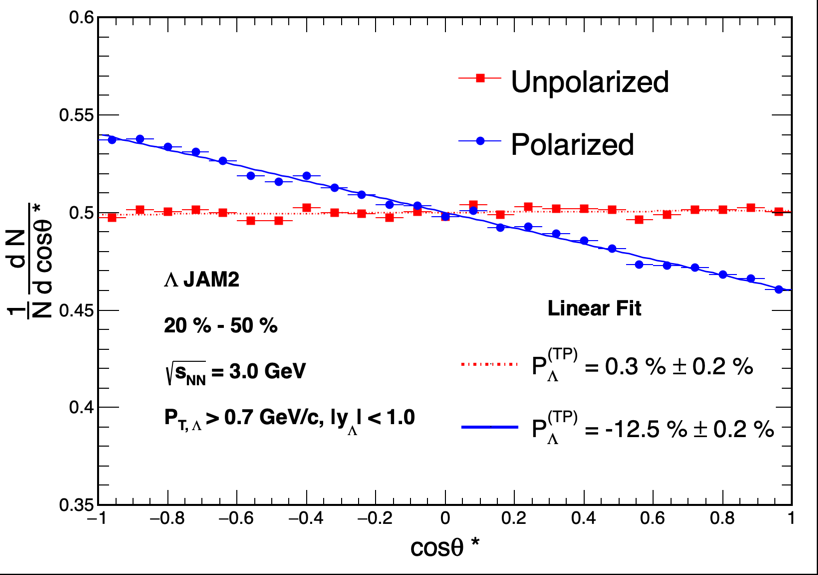
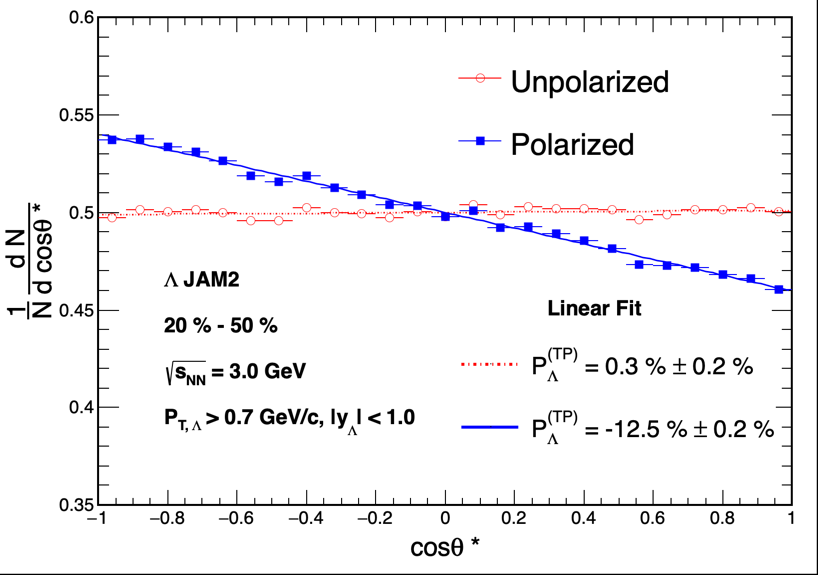
update

diff --git a/plot_FIXTARGET/plot.C b/plot_FIXTARGET/plot.C
@@ -4,8 +4,8 @@
 void plot(){
 
 	   double sqrt_sNN = 3.0;
-      double alpha = 0.642;
-
+      //double alpha = 0.642;
+      double alpha = 0.747;
 	   int *centrality_charged_multi_higher; 
        int *centrality_charged_multi_lower ;
 
@@ -616,10 +616,10 @@ void plot(){
       h1D_lambda_xF_distribution->SetMarkerSize(1.0);
       h1D_lambda_xF_distribution->Draw("EP");
       text->SetTextSize(0.04);
-      text->DrawLatexNDC(0.65, 0.87, "#Lambda JAM2");
-      text->DrawLatexNDC(0.65, 0.79, "20 % - 50 %");
-      text->DrawLatexNDC(0.65, 0.71, "#sqrt{s_{NN}} = 3.0 GeV");
-      text->DrawLatexNDC(0.65, 0.63, "P_{T, #Lambda} > 0.7 GeV/c, |y_#Lambda| < 1.0");
+      text->DrawLatexNDC(0.61, 0.87, "#Lambda JAM2");
+      text->DrawLatexNDC(0.61, 0.79, "20 % - 50 %");
+      text->DrawLatexNDC(0.61, 0.71, "#sqrt{s_{NN}} = 3.0 GeV");
+      text->DrawLatexNDC(0.61, 0.63, "P_{T, #Lambda} > 0.7 GeV/c, |y_{#Lambda}| < 1.0");
       c7->SaveAs("plot/lambda_xF.png");
       c7->SaveAs("plot/lambda_xF.pdf");
 
@@ -777,7 +777,7 @@ void plot(){
       text->DrawLatexNDC(0.20, 0.47, "#Lambda JAM2");
       text->DrawLatexNDC(0.20, 0.39, "20 % - 50 %");
       text->DrawLatexNDC(0.20, 0.31, "#sqrt{s_{NN}} = 3.0 GeV");
-      text->DrawLatexNDC(0.20, 0.23, "P_{T,#Lambda} > 0.7 GeV/c, 0 < y_{#Lambda} < 1.0");
+      text->DrawLatexNDC(0.20, 0.23, "P_{T, #Lambda} > 0.7 GeV/c, 0 < y_{#Lambda} < 1.0");
       text->DrawLatexNDC(0.68, 0.68, "Fit: #bar{P}_{#Lambda}^{(GP)} + c sin(#phi_{#Lambda} - #phi_{p}*)");
 
       c9_1->SaveAs("plot/sin_phi_star_EP_y_pos.png");
@@ -868,7 +868,7 @@ void plot(){
       h1D_dN_dcos_thets_star_unweight->GetYaxis()->CenterTitle();
       h1D_dN_dcos_thets_star_unweight->SetLineColor(kRed);
       h1D_dN_dcos_thets_star_unweight->SetMarkerColor(kRed);
-      h1D_dN_dcos_thets_star_unweight->SetMarkerStyle(21);
+      h1D_dN_dcos_thets_star_unweight->SetMarkerStyle(4);
       h1D_dN_dcos_thets_star_unweight->SetMarkerSize(1.0);
       h1D_dN_dcos_thets_star_unweight->Draw("EP");
       
@@ -877,7 +877,7 @@ void plot(){
       text->DrawLatexNDC(0.65, 0.87, "#Lambda JAM2");
       text->DrawLatexNDC(0.65, 0.79, "20 % - 50 %");
       text->DrawLatexNDC(0.65, 0.71, "#sqrt{s_{NN}} = 3.0 GeV");
-      text->DrawLatexNDC(0.65, 0.63, "P_{T} > 0.7 GeV/c, |y| < 1.0");
+      text->DrawLatexNDC(0.65, 0.63, "P_{T, #Lambda} > 0.7 GeV/c, |y| < 1.0");
 
 
       TLegend *leg11_1 = new TLegend(0.63,0.27,0.89,0.37);
@@ -918,7 +918,7 @@ void plot(){
       h1D_dN_dcos_thets_star_weight->GetYaxis()->SetRangeUser(0.4,0.65);
       h1D_dN_dcos_thets_star_weight->SetLineColor(kBlue);
       h1D_dN_dcos_thets_star_weight->SetMarkerColor(kBlue);
-      h1D_dN_dcos_thets_star_weight->SetMarkerStyle(20);
+      h1D_dN_dcos_thets_star_weight->SetMarkerStyle(21);
       h1D_dN_dcos_thets_star_weight->SetMarkerSize(1.0);
       h1D_dN_dcos_thets_star_weight->Draw("EP");
 
@@ -927,7 +927,7 @@ void plot(){
       text->DrawLatexNDC(0.65, 0.87, "#Lambda JAM2");
       text->DrawLatexNDC(0.65, 0.79, "20 % - 50 %");
       text->DrawLatexNDC(0.65, 0.71, "#sqrt{s_{NN}} = 3.0 GeV");
-      text->DrawLatexNDC(0.65, 0.63, "P_{T} > 0.7 GeV/c, |y| < 1.0");
+      text->DrawLatexNDC(0.65, 0.63, "P_{T, #Lambda} > 0.7 GeV/c, |y| < 1.0");
 
       
       TLegend *leg11_2 = new TLegend(0.63,0.27,0.80,0.37);
@@ -976,7 +976,7 @@ void plot(){
       text->DrawLatexNDC(0.65, 0.87, "#Lambda JAM2");
       text->DrawLatexNDC(0.65, 0.79, "20 % - 50 %");
       text->DrawLatexNDC(0.65, 0.71, "#sqrt{s_{NN}} = 3.0 GeV");
-      text->DrawLatexNDC(0.65, 0.63, "P_{T} > 0.7 GeV/c, |y| < 1.0");
+      text->DrawLatexNDC(0.65, 0.63, "P_{T, #Lambda} > 0.7 GeV/c, |y| < 1.0");
 
 
 

diff --git a/Lambda_PP_Mechanism_FIXTARGET/src/JAM2_Analyzer.C b/Lambda_PP_Mechanism_FIXTARGET/src/JAM2_Analyzer.C
@@ -969,11 +969,11 @@ void JAM2_Analyzer::Loop(){
 
 
       //For a quick look. 
-      std::cout<<"Unweight EP:"<< h1D_sin_phi_star_EP_un_weight ->GetMean()*100*8/3.14/0.642<<" +/-"<<h1D_sin_phi_star_EP_un_weight ->GetMeanError()<<std::endl;
-      std::cout<<"Unweight RP:"<< h1D_sin_phi_star_RP_un_weight ->GetMean()*100*8/3.14/0.642<<" +/-"<<h1D_sin_phi_star_RP_un_weight ->GetMeanError()<<std::endl;
+      //std::cout<<"Unweight EP:"<< h1D_sin_phi_star_EP_un_weight ->GetMean()*100*8/3.14/0.642<<" +/-"<<h1D_sin_phi_star_EP_un_weight ->GetMeanError()<<std::endl;
+      //std::cout<<"Unweight RP:"<< h1D_sin_phi_star_RP_un_weight ->GetMean()*100*8/3.14/0.642<<" +/-"<<h1D_sin_phi_star_RP_un_weight ->GetMeanError()<<std::endl;
 
-      std::cout<<"Weight EP:"<< h1D_sin_phi_star_EP_weight ->GetMean()*100*8/3.14/0.642<<" +/-"<<h1D_sin_phi_star_EP_weight ->GetMeanError()<<std::endl;
-      std::cout<<"Weight RP:"<< h1D_sin_phi_star_RP_weight ->GetMean()*100*8/3.14/0.642<<" +/-"<<h1D_sin_phi_star_RP_weight ->GetMeanError()<<std::endl;
+      //std::cout<<"Weight EP:"<< h1D_sin_phi_star_EP_weight ->GetMean()*100*8/3.14/0.642<<" +/-"<<h1D_sin_phi_star_EP_weight ->GetMeanError()<<std::endl;
+      //std::cout<<"Weight RP:"<< h1D_sin_phi_star_RP_weight ->GetMean()*100*8/3.14/0.642<<" +/-"<<h1D_sin_phi_star_RP_weight ->GetMeanError()<<std::endl;
       
       
 

diff --git a/plot_FIXTARGET/plot_summary.C b/plot_FIXTARGET/plot_summary.C
@@ -214,9 +214,9 @@ void plot_summary(){
 	mg->Add(gr_EP_direct_average);
 	//mg->Add(gr_RP);
 
-	mg->GetXaxis()->SetTitle("P_{#Lambda}^{(GP)} (%)");
+	mg->GetXaxis()->SetTitle("#bar{P}_{#Lambda}^{(GP)} (%)");
 	mg->GetXaxis()->CenterTitle();
-	mg->GetXaxis()->SetTitleSize(0.07);
+	mg->GetXaxis()->SetTitleSize(0.065);
 	mg->GetXaxis()->SetTitleOffset(0.69);
 
 	mg->GetYaxis()->SetTitle("");
@@ -308,8 +308,8 @@ void plot_summary(){
      text->SetTextColor(kBlack);
 	 //text->SetTextSize(0.037);
      text->DrawLatexNDC(0.55 , 0.855, "#sqrt{S_{NN}} = 3 GeV    20 % - 50 %");
-     text->DrawLatexNDC(0.55, 0.755, "P_{T} > 0.7 GeV/c");
-     text->DrawLatexNDC(0.55, 0.655, "-0.2 < y < 1.0 ");
+     text->DrawLatexNDC(0.55, 0.755, "P_{T, #Lambda} > 0.7 GeV/c");
+     text->DrawLatexNDC(0.55, 0.655, "-0.2 < y_{#Lambda} < 1.0 ");
 
 
 

diff --git a/plot_FIXTARGET/plot_y_m0p2.C b/plot_FIXTARGET/plot_y_m0p2.C
@@ -4,7 +4,8 @@
 void plot_y_m0p2(){
 
 	   double sqrt_sNN = 3.0;
-      double alpha = 0.642;
+      //double alpha = 0.642;
+      double alpha = 0.747;
 
 	   int *centrality_charged_multi_higher; 
        int *centrality_charged_multi_lower ;

diff --git a/Lambda_PP_Mechanism_COLLIDER/src/P_Lambda.h b/Lambda_PP_Mechanism_COLLIDER/src/P_Lambda.h
@@ -17,7 +17,8 @@ public:
 	Lambda_decay_RestFrame()
 		:mass_lambda(0),xF(0) 
 	{
-		alpha = 0.642 ;
+		//alpha = 0.642 ;
+		alpha = 0.747;
 		mass_proton = 0.93827208943;
 		mass_pion_minus = 0.13957039 ;
 		

diff --git a/Lambda_PP_Mechanism_FIXTARGET/src/P_Lambda.h b/Lambda_PP_Mechanism_FIXTARGET/src/P_Lambda.h
@@ -17,7 +17,8 @@ public:
 	Lambda_decay_RestFrame()
 		:mass_lambda(0),xF(0) 
 	{
-		alpha = 0.642 ;
+		//alpha = 0.642 ;
+		alpha = 0.747;
 		mass_proton = 0.93827208943;
 		mass_pion_minus = 0.13957039 ;
 		
